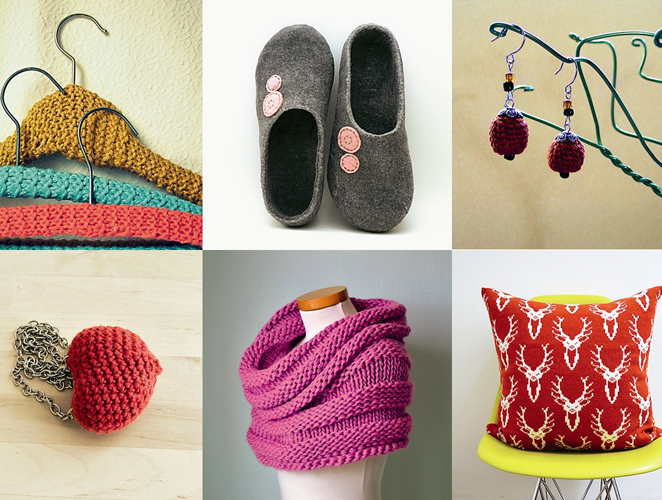
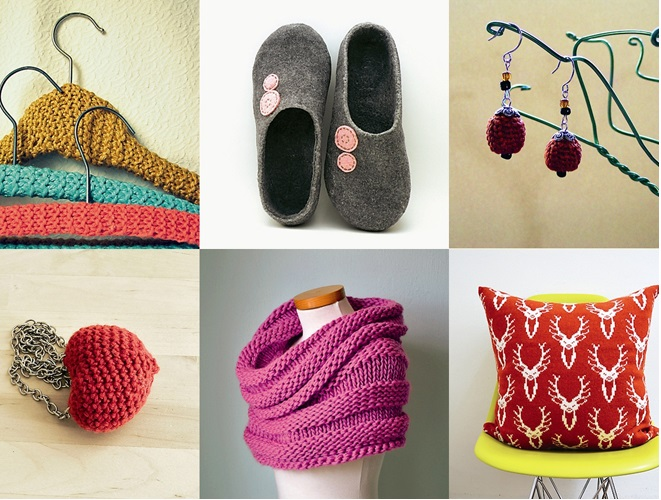
full page and carousel fit

diff --git a/src/pages/Home.jsx b/src/pages/Home.jsx
@@ -1,41 +1,65 @@
 import "./Home.css"
 import product1 from '../../public/hecho a mano.jpg'
 import product2 from '../../public/hecho a mano 2.jpg'
-import product3 from'../../public/ropa.jpg'
+import product3 from '../../public/ropa.jpg'
 import product4 from '../../public/consumo.jpg'
 import product5 from '../../public/regalo.jpeg'
+import Carousel from 'react-bootstrap/Carousel'
 
 
 const Home = () => {
     return (
         <div className='section-container'>
-            <section className="bloque"> <div id="servicesAnchor"> <h1>Sale and purchase of 
-second-hand craft </h1> </div>
+            <section className="bloque"> <div id="servicesAnchor"> <h1>Sale and purchase of
+                second-hand craft </h1> </div>
                 <div id="carouselExampleControls" className="carousel slide" data-bs-ride="carousel">
                     <div className="carousel-inner">
                         <div className="carousel-item active">
                             <img src={product1} className="img-fluid" alt="Responsive image"></img>
+                            <Carousel.Caption>
+                                <h3>Hand Made</h3>
+                                <p>
+                                With much love and dedication
+                                </p>
+                            </Carousel.Caption>
                         </div>
                         <div className="carousel-item">
-                            <img src={product2} className="img-fluid" alt="Responsive image"></img>     
+                            <img src={product2} className="img-fluid" alt="Responsive image"></img>
+                           
                         </div>
                         <div className="carousel-item">
-                            <img src={product3} className="img-fluid" alt="Responsive image"></img>     
+                            <img src={product3} className="img-fluid" alt="Responsive image"></img>
+                            
+                          
                         </div>
                         <div className="carousel-item">
-                            <img src={product4} className="img-fluid" alt="Responsive image"></img>     
+                            <img src={product4} className="img-fluid" alt="Responsive image"></img>
+                            <Carousel.Caption>
+                                <h3>Ethical consumption</h3>
+                                <p>
+                                   
+                                   With the second hand, the extraction of new raw materials, the environmental impact associated with manufacturing and the generation of waste are avoided.
+                                </p>
+                            </Carousel.Caption>
                         </div>
                         <div className="carousel-item">
-                            <img src={product5} className="img-fluid" alt="Responsive image"></img>     
+                            <img src={product5} className="img-fluid" alt="Responsive image"></img>
+                            <Carousel.Caption>
+                                <h3>Unique garments</h3>
+                                <p>
+                                Exclusive and very original gifts
+                                </p>
+                            </Carousel.Caption>
+                           
                         </div>
                         <button className="carousel-control-prev" type="button" data-bs-target="#carouselExampleControls" data-bs-slide="prev">
-                        <span className="carousel-control-prev-icon" aria-hidden="true"></span>
-                        <span className="visually-hidden">Previous</span>
-                    </button>
-                    <button className="carousel-control-next" type="button" data-bs-target="#carouselExampleControls" data-bs-slide="next">
-                        <span className="carousel-control-next-icon" aria-hidden="true"></span>
-                        <span className="visually-hidden">Next</span>
-                    </button>
+                            <span className="carousel-control-prev-icon" aria-hidden="true"></span>
+                            <span className="visually-hidden">Previous</span>
+                        </button>
+                        <button className="carousel-control-next" type="button" data-bs-target="#carouselExampleControls" data-bs-slide="next">
+                            <span className="carousel-control-next-icon" aria-hidden="true"></span>
+                            <span className="visually-hidden">Next</span>
+                        </button>
                     </div>
                 </div>
             </section>

diff --git a/src/pages/Home.css b/src/pages/Home.css
@@ -1,37 +1,40 @@
-.section-container { 
-    height: 80vh; 
-    width: 200vw;
-    background-image: url(../../public/Vintaje.png); 
-    font-weight: bold; 
+.section-container {
+    height: 80vh;
+    width: 100vw;
+    background-image: url(../../public/Vintaje.png);
+    font-weight: bold;
     background-size: cover;
+    display: flex;
+    justify-content: center;
+    overflow: hidden;
+    
 }
 
 .bloque {
     text-align: center;
-    color: rgb(247, 241, 241); 
-    padding: 1.25rem; 
-    font-size: 1.5625rem; 
-    grid-column: 1/5; 
+  
+    padding: 1.25rem;
+    font-size: 1.5625rem;
+    grid-column: 1/5;
     font-family: pitch, courier new, Courier, lucida sans typewriter, lucida typewriter, monospace;
-    
-}
-carousel slide
-
-.img-fluid{
-width: 450px;
 
 }
-  
-.carousel-inner{
-height: 480px;
-display: flex;
-justify-content:center;
-padding-right: 650px;
 
-    
+carousel slide .img-fluid {
+    width: 400px;
+    display: flex;
+    justify-content: center;
+    padding-right: 650px;
+
 }
-  
 
- 
+.carousel-inner {
+   transition: 0.3s;
+   height: 460px;
+    display: flex;
+    justify-content: center;
+    padding-right: 750px;
+
+}
 
 

diff --git a/src/components/Navbar.css b/src/components/Navbar.css
@@ -6,17 +6,27 @@
     background-color: #F0CF84;
     color: rgba(148, 85, 58, 0.87);
     font-size: 1.600rem;
-       
+    text-decoration: none;     
   }
 
   .logo-Craft{
-    width: 8.625rem;
-   
-      
+    width: 8.625rem;       
   }
  
   .navbar-Cart{
     background-color: #8b593d;
     border-radius: 80%;
     height: 3.125rem;
+  }
+  .navbar-home{
+    text-decoration: none;
+    color: rgba(148, 85, 58, 0.87);
+  }
+  .navbar-Products{
+    text-decoration: none;
+    color: rgba(148, 85, 58, 0.87);
+  }
+  .navbar-DashBoard{
+    text-decoration: none;
+    color: rgba(148, 85, 58, 0.87);
   }

diff --git a/src/layout/LayoutPublic.jsx b/src/layout/LayoutPublic.jsx
@@ -17,7 +17,7 @@ const LayoutPublic = () => {
             <Navbar />
 
            
-           <main className="container">
+           <main className="Cuerpo">
            
             {navigation.state === "loading" && (
                 <div className="alert alert-info my-S">Loading...</div>
@@ -26,6 +26,7 @@ const LayoutPublic = () => {
             </main> 
            
              <Footer/>
+             
                  
         </>
     );

diff --git a/src/layout/LayoutPublic.css b/src/layout/LayoutPublic.css
@@ -1,11 +1,11 @@
 
-.container{
+.Cuerpo{
     display: flex;
     color: rgba(148, 85, 58, 0.87);
     display: flex;
-    background-color: rgb(93, 184, 237);
+    background-color: rgba(128, 197, 246, 0.36);
     background-repeat:no-repeat;
-    height: 80vh; 
+    height: 100%; 
     width: 100%;
     font-family: pitch, courier new, Courier, lucida sans typewriter, lucida typewriter, monospace;
     color: rgba(239, 230, 225, 0.87);

diff --git a/src/pages/Aboutcraft.css b/src/pages/Aboutcraft.css
@@ -1,7 +1,9 @@
 .About {
     display: flex;
     flex-direction: column;
-    justify-content: space-around;   
+    justify-content: space-around; 
+    height: 80vh; 
+    width: 100vw;  
 }
 
 .images {

diff --git a/src/components/Footer.css b/src/components/Footer.css
@@ -13,6 +13,7 @@ h5{
 }
 .footer-About{
     margin-top: 1.25rem;
-    color: rgba(148, 85, 58, 0.87); 
+    color: rgba(148, 85, 58, 0.87);
+    text-decoration: none; 
 
 }

diff --git a/src/index.css b/src/index.css
@@ -11,5 +11,5 @@
     grid-template-columns: auto;
     grid-template-rows: auto auto auto auto;
 
-
 }
+

diff --git a/src/pages/Login.css b/src/pages/Login.css
@@ -1,5 +1,5 @@
 .information-container{
-
+color: black;
 display: flex;
 
 }
